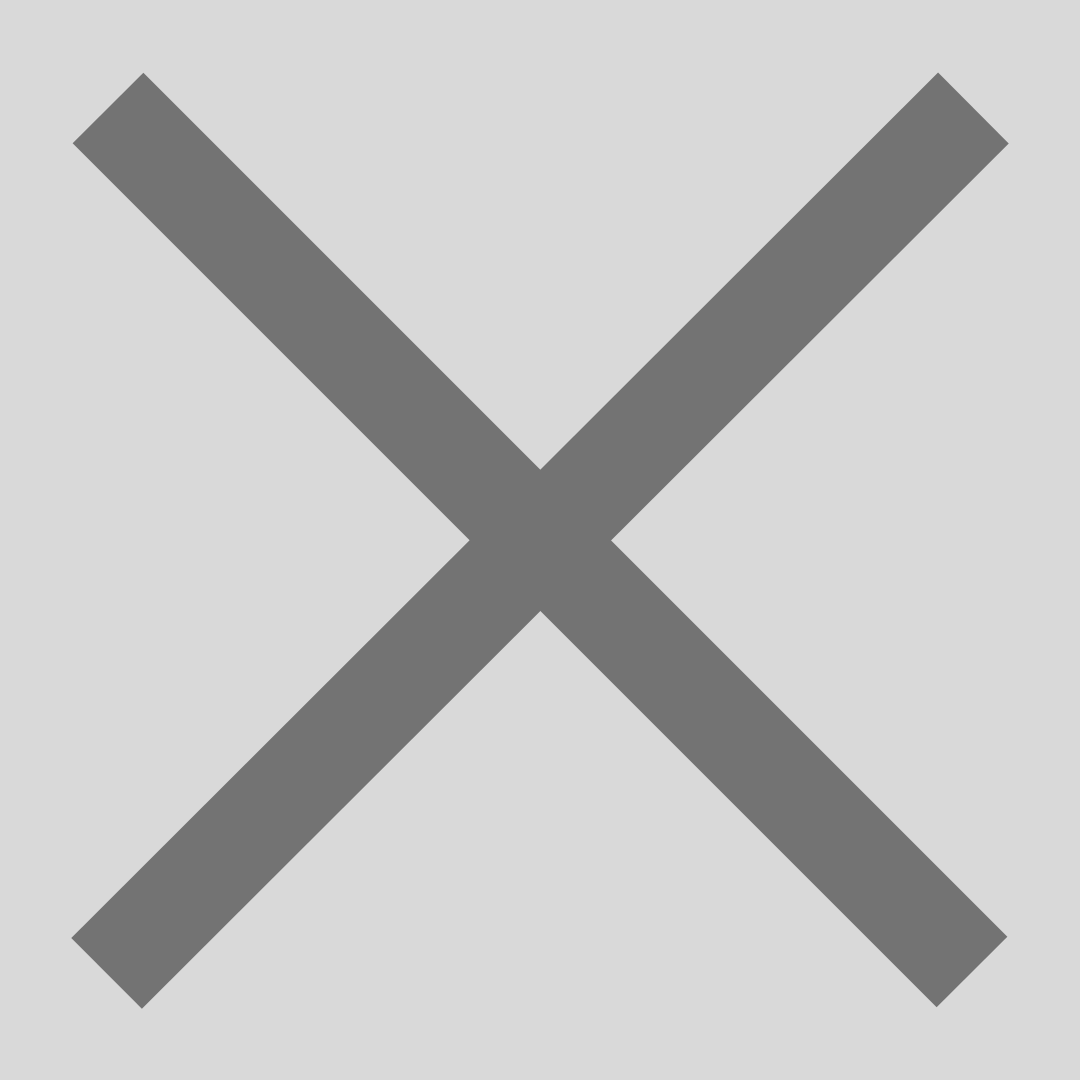
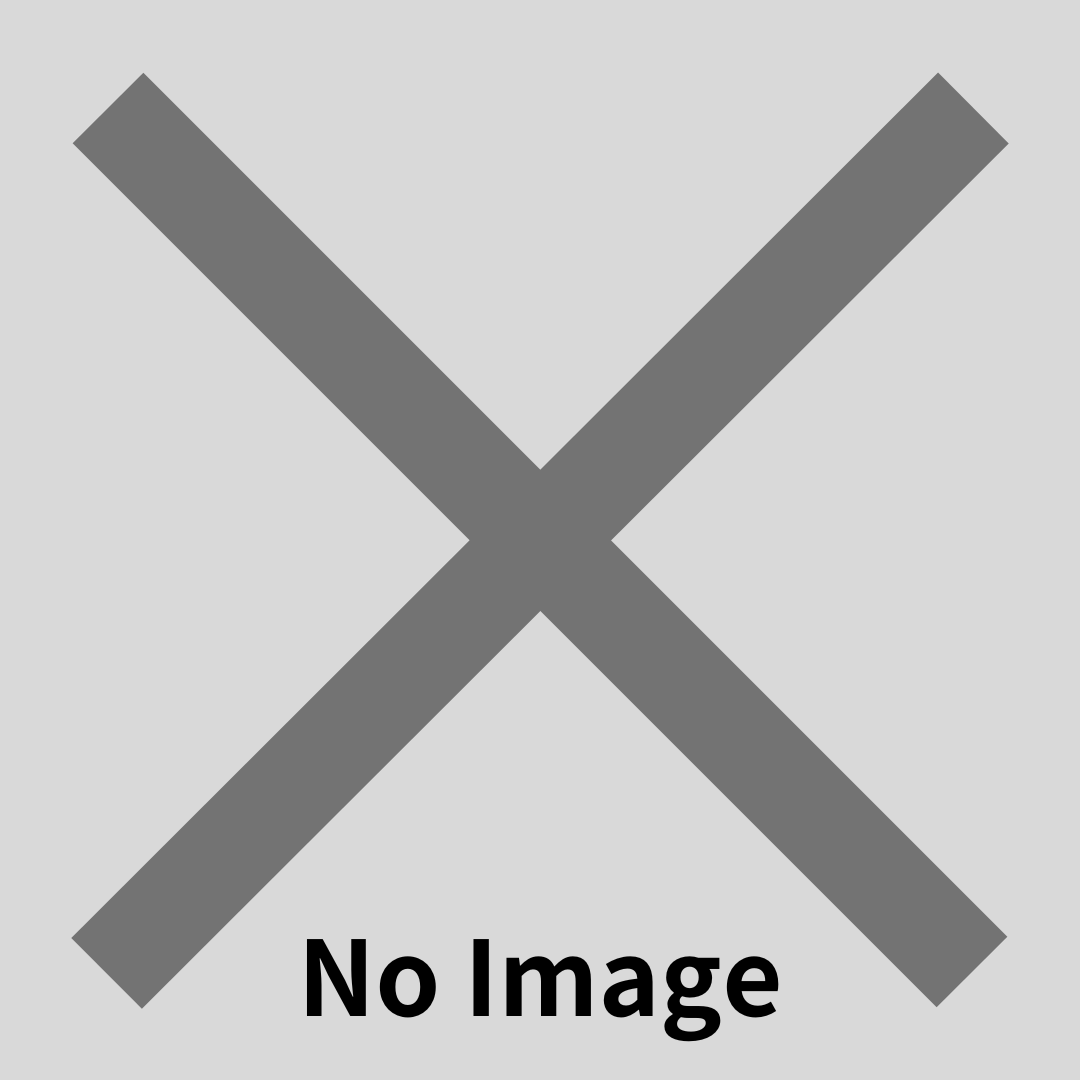
fix: img==null に対応

Changed region(s): [[0.275, 0.8556, 0.7333, 0.9778]]

diff --git a/_script/cli.ts b/_script/cli.ts
@@ -58,7 +58,7 @@ const getMetas = (html: string): Metas => {
     message: undefined,
   }
 }
-const dlImage = async (url: string | undefined, entry: string) => {
+const dlImage = async (url: string | undefined) => {
   if (url === undefined) return undefined;
   const name: string = cryptoRandomString({ length: 32, type: 'alphanumeric' });
   try {
@@ -67,15 +67,15 @@ const dlImage = async (url: string | undefined, entry: string) => {
     if (ext.length >= 5) {
       ext = 'png';
     }
-    Deno.rename(img.fullPath, `./img/ogp-${entry}-${name}.${ext}`);
-    return `/img/ogp-${entry}-${name}.webp`; // webp link is embed
+    Deno.rename(img.fullPath, `./img/ogp-${name}.${ext}`);
+    return `/img/ogp-${name}.webp`; // webp link is embed
   } catch (err) {
     console.log(err);
   }
   return undefined;
 }
 
-const parseBody = async (body: string, entry: string) => {
+const parseBody = async (body: string) => {
   const raw = body.split(embedYamlRegex);
   const content = [];
   for (const line of raw) {
@@ -86,7 +86,7 @@ const parseBody = async (body: string, entry: string) => {
       const rawHtml = await fetch(dataUrl);
       const html = await rawHtml.text();
       const metas = getMetas(html);
-      const imageUrl = await dlImage(metas.image, entry);
+      const imageUrl = await dlImage(metas.image);
       content.push(`\n<custom-ogp url="${dataUrl}" ${imageUrl ? `image="${imageUrl}"` : ''} ${metas.title ? `title="${metas.title.replace("\n", "")}"` : ''} ${metas.description ? `description="${metas.description.replaceAll("\n", "")}"` : ''}></custom-ogp>\n`);
     } else {
       content.push(line);
@@ -111,12 +111,13 @@ await Deno.mkdir('./img', { recursive: true });
 await Deno.copyFile('_img/_data.yml', 'img/_data.yml');
 await Deno.copyFile('_img/top-ogp-1.png', 'img/top-ogp-1.png');
 await Deno.copyFile('_img/none.png', 'img/none.png');
+await Deno.copyFile('_img/2023-01-27-1.png', 'img/2023-01-27-1.png');
 
 for await (const entry of expandGlob('./_content/*.md')) {
   // read & write md -> md
   const raw = await Deno.readTextFile(entry.path);
   const { frontMatter, body, attrs: _ } = extract<Data>(raw);
-  const bodyContent = await parseBody(body, entry.name.split('.')[0]); // 2023-01-20.md => 2023-01-20
+  const bodyContent = await parseBody(body); // 2023-01-20.md => 2023-01-20
   const content = '---\n' + frontMatter + '\n---\n\n' + bodyContent;
   await Deno.writeTextFile(`./posts/${entry.name}`, content);
 }

diff --git a/main.js b/main.js
@@ -61,7 +61,7 @@ class Ogp extends HTMLElement {
 
     // image
     let imgUrl;
-    if (this.hasAttributes('image')) {
+    if (this.hasAttributes('image') && this.getAttribute('image') !== null) {
       imgUrl = this.getAttribute('image');
     } else {
       imgUrl = '/img/none.webp';
